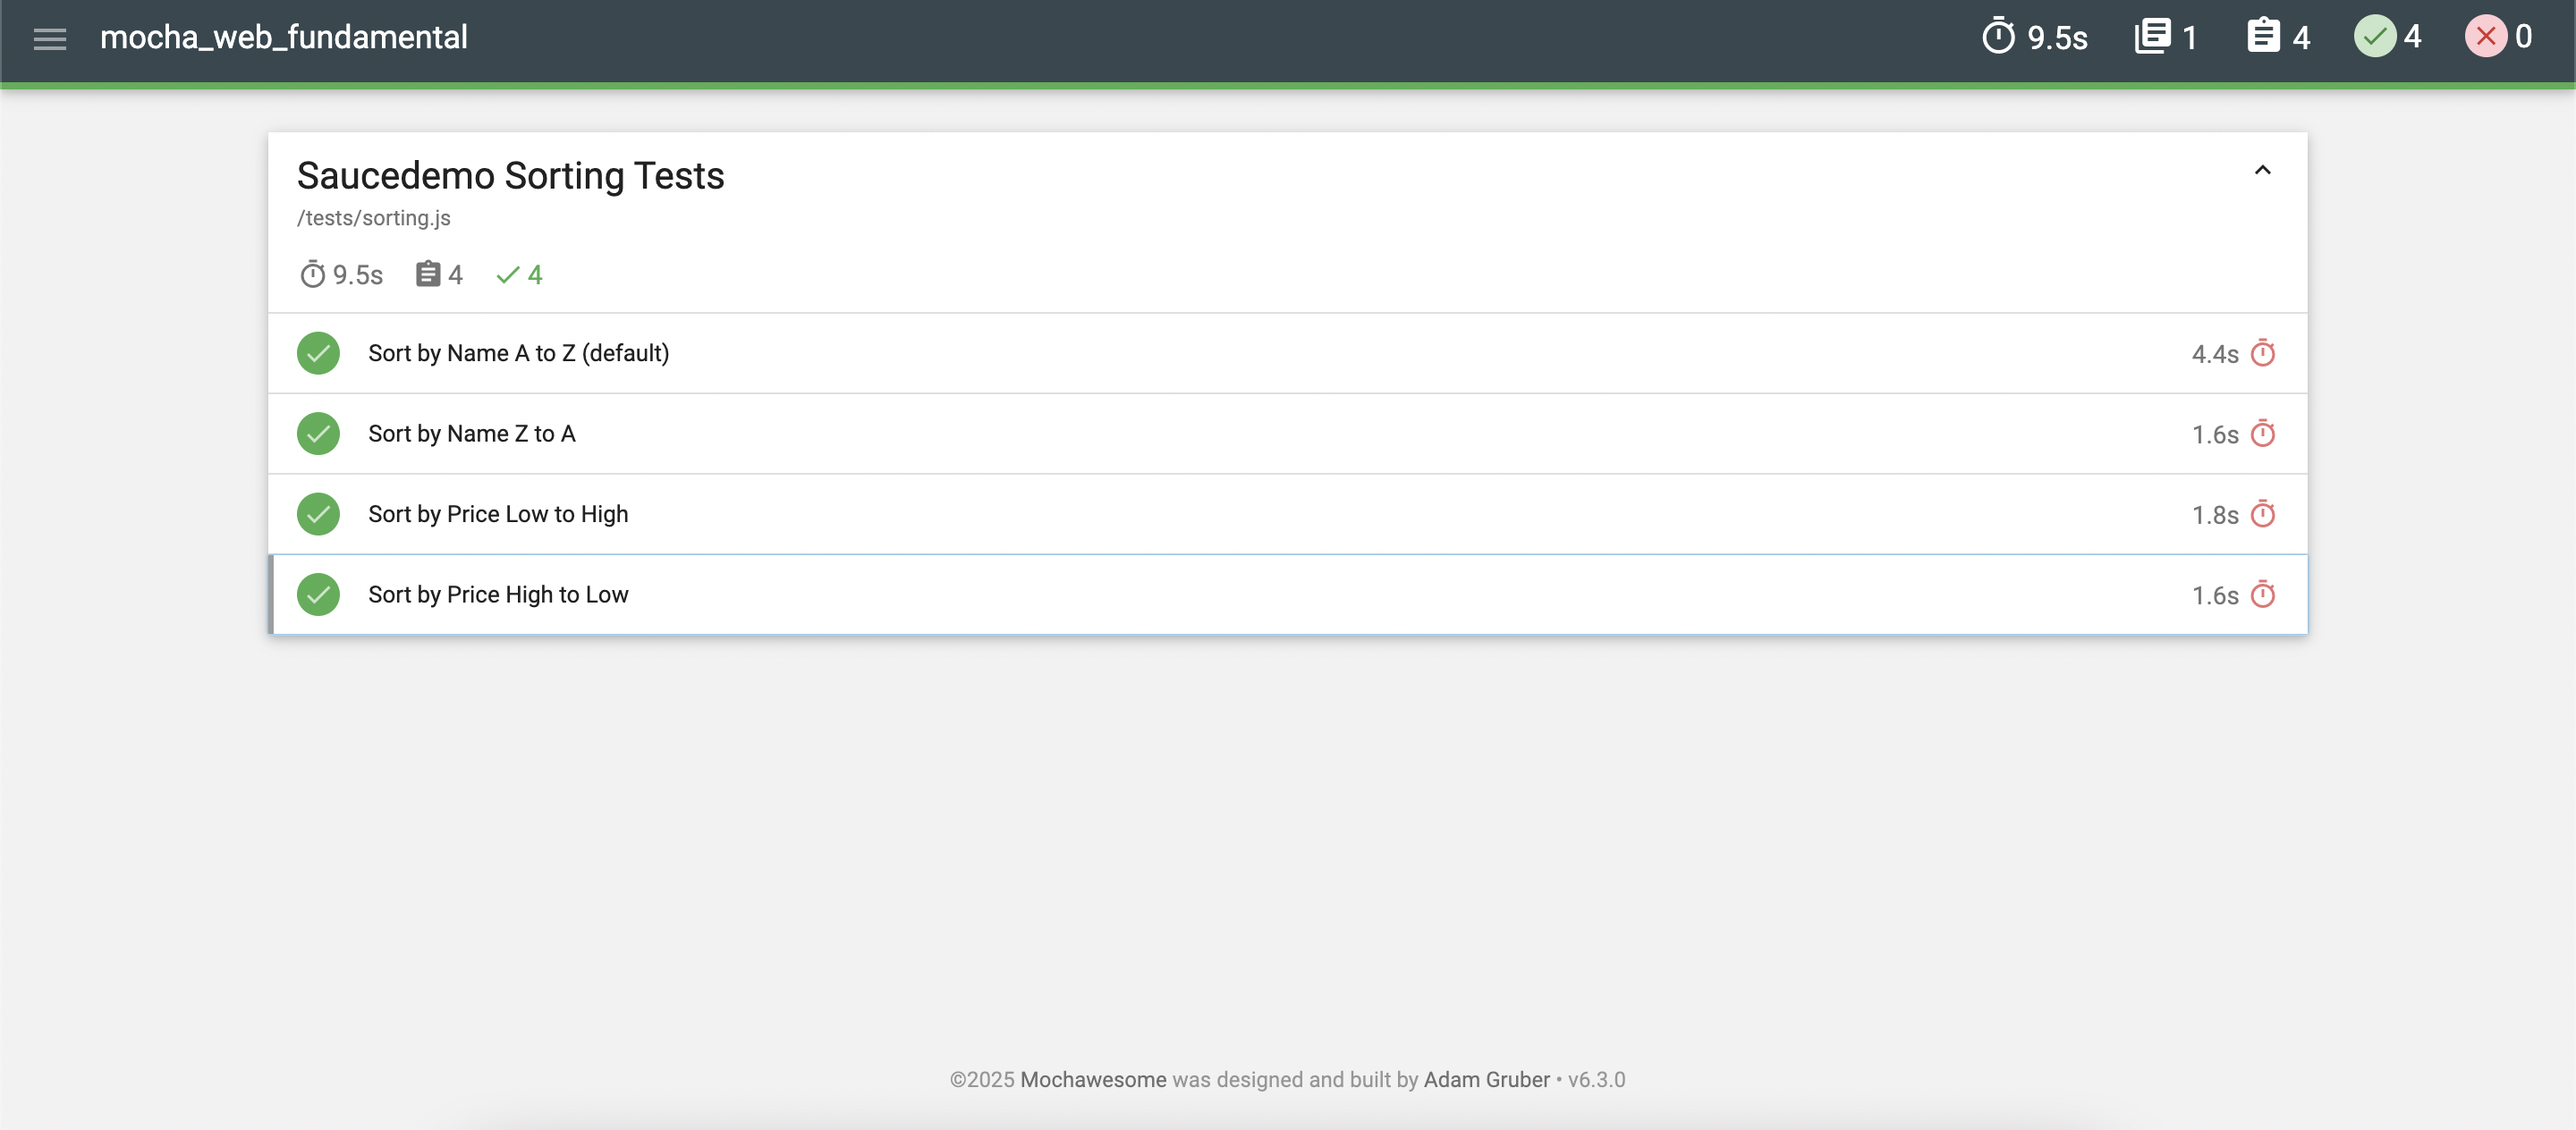
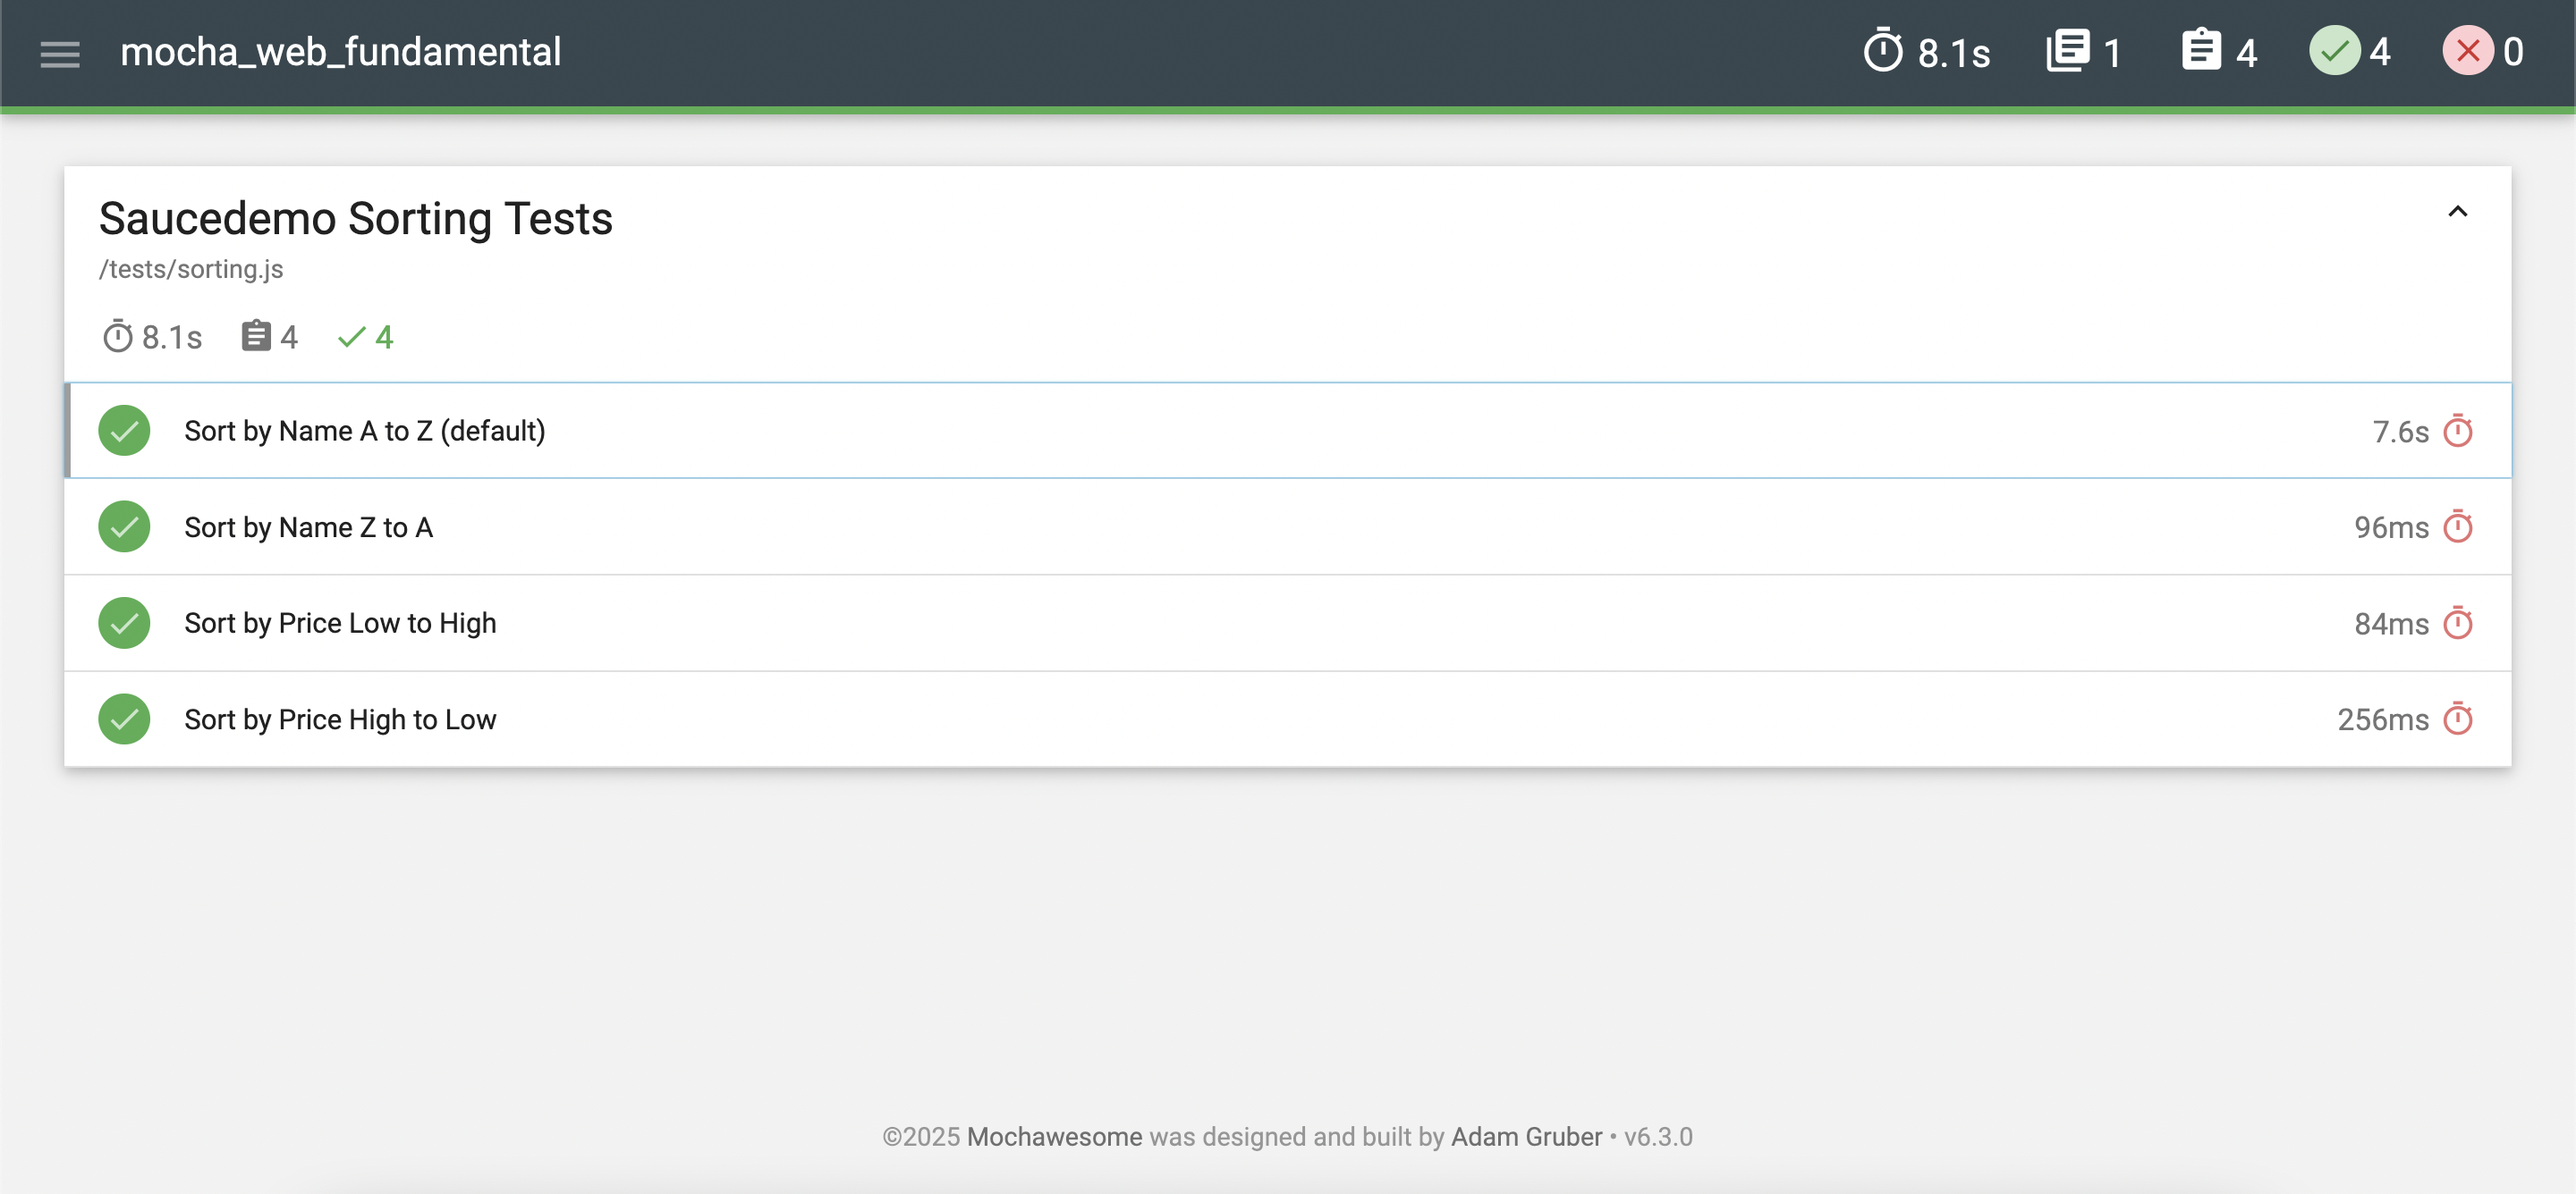
- adding verification for each sorting - update read me - updare test report

diff --git a/mochawesome-report/mochawesome.html b/mochawesome-report/mochawesome.html
@@ -1,2 +1,2 @@
 <!doctype html>
-<html lang="en"><head><meta charSet="utf-8"/><meta http-equiv="X-UA-Compatible" content="IE=edge"/><meta name="viewport" content="width=device-width, initial-scale=1"/><title>Mochawesome Report</title><link rel="stylesheet" href="assets/app.css"/></head><body data-raw="{&quot;stats&quot;:{&quot;suites&quot;:1,&quot;tests&quot;:4,&quot;passes&quot;:4,&quot;pending&quot;:0,&quot;failures&quot;:0,&quot;start&quot;:&quot;2025-10-27T13:00:37.400Z&quot;,&quot;end&quot;:&quot;2025-10-27T13:00:43.430Z&quot;,&quot;duration&quot;:6030,&quot;testsRegistered&quot;:4,&quot;passPercent&quot;:100,&quot;pendingPercent&quot;:0,&quot;other&quot;:0,&quot;hasOther&quot;:false,&quot;skipped&quot;:0,&quot;hasSkipped&quot;:false},&quot;results&quot;:[{&quot;uuid&quot;:&quot;c767aa82-f8a7-44bc-9118-78a42fe69310&quot;,&quot;title&quot;:&quot;&quot;,&quot;fullFile&quot;:&quot;/Users/elsa.fauzia/Documents/qa_enginner_digial_skola/tasks/mocha_web_fundamental/tests/sorting.js&quot;,&quot;file&quot;:&quot;/tests/sorting.js&quot;,&quot;beforeHooks&quot;:[],&quot;afterHooks&quot;:[],&quot;tests&quot;:[],&quot;suites&quot;:[{&quot;uuid&quot;:&quot;f5a542b3-f8d3-4e3d-a6fc-6d152972b6ef&quot;,&quot;title&quot;:&quot;Saucedemo Sorting Tests&quot;,&quot;fullFile&quot;:&quot;/Users/elsa.fauzia/Documents/qa_enginner_digial_skola/tasks/mocha_web_fundamental/tests/sorting.js&quot;,&quot;file&quot;:&quot;/tests/sorting.js&quot;,&quot;beforeHooks&quot;:[],&quot;afterHooks&quot;:[],&quot;tests&quot;:[{&quot;title&quot;:&quot;Sort by Name A to Z (default)&quot;,&quot;fullTitle&quot;:&quot;Saucedemo Sorting Tests Sort by Name A to Z (default)&quot;,&quot;timedOut&quot;:false,&quot;duration&quot;:5770,&quot;state&quot;:&quot;passed&quot;,&quot;speed&quot;:&quot;slow&quot;,&quot;pass&quot;:true,&quot;fail&quot;:false,&quot;pending&quot;:false,&quot;code&quot;:&quot;await setupDriver();\nawait login();\nawait selectSort(\&quot;az\&quot;);&quot;,&quot;err&quot;:{},&quot;uuid&quot;:&quot;d56ff98c-f3b6-4797-bc07-247897f36a17&quot;,&quot;parentUUID&quot;:&quot;f5a542b3-f8d3-4e3d-a6fc-6d152972b6ef&quot;,&quot;isHook&quot;:false,&quot;skipped&quot;:false},{&quot;title&quot;:&quot;Sort by Name Z to A&quot;,&quot;fullTitle&quot;:&quot;Saucedemo Sorting Tests Sort by Name Z to A&quot;,&quot;timedOut&quot;:false,&quot;duration&quot;:74,&quot;state&quot;:&quot;passed&quot;,&quot;speed&quot;:&quot;medium&quot;,&quot;pass&quot;:true,&quot;fail&quot;:false,&quot;pending&quot;:false,&quot;code&quot;:&quot;await selectSort(\&quot;za\&quot;);&quot;,&quot;err&quot;:{},&quot;uuid&quot;:&quot;b34ae70b-16b3-4132-9ba4-74070edad35c&quot;,&quot;parentUUID&quot;:&quot;f5a542b3-f8d3-4e3d-a6fc-6d152972b6ef&quot;,&quot;isHook&quot;:false,&quot;skipped&quot;:false},{&quot;title&quot;:&quot;Sort by Price Low to High&quot;,&quot;fullTitle&quot;:&quot;Saucedemo Sorting Tests Sort by Price Low to High&quot;,&quot;timedOut&quot;:false,&quot;duration&quot;:59,&quot;state&quot;:&quot;passed&quot;,&quot;speed&quot;:&quot;medium&quot;,&quot;pass&quot;:true,&quot;fail&quot;:false,&quot;pending&quot;:false,&quot;code&quot;:&quot;await selectSort(\&quot;lohi\&quot;);&quot;,&quot;err&quot;:{},&quot;uuid&quot;:&quot;c665064a-6f76-448f-8e67-cfece48ccb6b&quot;,&quot;parentUUID&quot;:&quot;f5a542b3-f8d3-4e3d-a6fc-6d152972b6ef&quot;,&quot;isHook&quot;:false,&quot;skipped&quot;:false},{&quot;title&quot;:&quot;Sort by Price High to Low&quot;,&quot;fullTitle&quot;:&quot;Saucedemo Sorting Tests Sort by Price High to Low&quot;,&quot;timedOut&quot;:false,&quot;duration&quot;:121,&quot;state&quot;:&quot;passed&quot;,&quot;speed&quot;:&quot;slow&quot;,&quot;pass&quot;:true,&quot;fail&quot;:false,&quot;pending&quot;:false,&quot;code&quot;:&quot;await selectSort(\&quot;hilo\&quot;);\nawait driver.quit();&quot;,&quot;err&quot;:{},&quot;uuid&quot;:&quot;caa9ca37-a76c-4fc1-be4e-b5e84635c62f&quot;,&quot;parentUUID&quot;:&quot;f5a542b3-f8d3-4e3d-a6fc-6d152972b6ef&quot;,&quot;isHook&quot;:false,&quot;skipped&quot;:false}],&quot;suites&quot;:[],&quot;passes&quot;:[&quot;d56ff98c-f3b6-4797-bc07-247897f36a17&quot;,&quot;b34ae70b-16b3-4132-9ba4-74070edad35c&quot;,&quot;c665064a-6f76-448f-8e67-cfece48ccb6b&quot;,&quot;caa9ca37-a76c-4fc1-be4e-b5e84635c62f&quot;],&quot;failures&quot;:[],&quot;pending&quot;:[],&quot;skipped&quot;:[],&quot;duration&quot;:6024,&quot;root&quot;:false,&quot;rootEmpty&quot;:false,&quot;_timeout&quot;:60000}],&quot;passes&quot;:[],&quot;failures&quot;:[],&quot;pending&quot;:[],&quot;skipped&quot;:[],&quot;duration&quot;:0,&quot;root&quot;:true,&quot;rootEmpty&quot;:true,&quot;_timeout&quot;:60000}],&quot;meta&quot;:{&quot;mocha&quot;:{&quot;version&quot;:&quot;11.7.4&quot;},&quot;mochawesome&quot;:{&quot;options&quot;:{&quot;quiet&quot;:false,&quot;reportFilename&quot;:&quot;mochawesome&quot;,&quot;saveHtml&quot;:true,&quot;saveJson&quot;:true,&quot;consoleReporter&quot;:&quot;spec&quot;,&quot;useInlineDiffs&quot;:false,&quot;code&quot;:true},&quot;version&quot;:&quot;7.1.4&quot;},&quot;marge&quot;:{&quot;version&quot;:&quot;6.3.0&quot;}}}" data-config="{&quot;reportFilename&quot;:&quot;mochawesome&quot;,&quot;reportDir&quot;:&quot;mochawesome-report&quot;,&quot;reportTitle&quot;:&quot;mocha_web_fundamental&quot;,&quot;reportPageTitle&quot;:&quot;Mochawesome Report&quot;,&quot;inline&quot;:false,&quot;inlineAssets&quot;:false,&quot;cdn&quot;:false,&quot;charts&quot;:false,&quot;enableCharts&quot;:false,&quot;code&quot;:true,&quot;enableCode&quot;:true,&quot;autoOpen&quot;:false,&quot;overwrite&quot;:true,&quot;timestamp&quot;:false,&quot;ts&quot;:false,&quot;showPassed&quot;:true,&quot;showFailed&quot;:true,&quot;showPending&quot;:true,&quot;showSkipped&quot;:false,&quot;showHooks&quot;:&quot;failed&quot;,&quot;saveJson&quot;:true,&quot;saveHtml&quot;:true,&quot;dev&quot;:false,&quot;assetsDir&quot;:&quot;mochawesome-report/assets&quot;,&quot;jsonFile&quot;:&quot;/Users/elsa.fauzia/Documents/qa_enginner_digial_skola/tasks/mocha_web_fundamental/mochawesome-report/mochawesome.json&quot;,&quot;htmlFile&quot;:&quot;/Users/elsa.fauzia/Documents/qa_enginner_digial_skola/tasks/mocha_web_fundamental/mochawesome-report/mochawesome.html&quot;}"><div id="report"></div><script src="assets/app.js"></script></body></html>
+<html lang="en"><head><meta charSet="utf-8"/><meta http-equiv="X-UA-Compatible" content="IE=edge"/><meta name="viewport" content="width=device-width, initial-scale=1"/><title>Mochawesome Report</title><link rel="stylesheet" href="assets/app.css"/></head><body data-raw="{&quot;stats&quot;:{&quot;suites&quot;:1,&quot;tests&quot;:4,&quot;passes&quot;:4,&quot;pending&quot;:0,&quot;failures&quot;:0,&quot;start&quot;:&quot;2025-10-28T13:00:06.110Z&quot;,&quot;end&quot;:&quot;2025-10-28T13:00:14.225Z&quot;,&quot;duration&quot;:8115,&quot;testsRegistered&quot;:4,&quot;passPercent&quot;:100,&quot;pendingPercent&quot;:0,&quot;other&quot;:0,&quot;hasOther&quot;:false,&quot;skipped&quot;:0,&quot;hasSkipped&quot;:false},&quot;results&quot;:[{&quot;uuid&quot;:&quot;d500eb13-71f5-4a30-8020-8307dfbf0c34&quot;,&quot;title&quot;:&quot;&quot;,&quot;fullFile&quot;:&quot;/Users/elsa.fauzia/Documents/qa_enginner_digial_skola/tasks/mocha_web_fundamental/tests/sorting.js&quot;,&quot;file&quot;:&quot;/tests/sorting.js&quot;,&quot;beforeHooks&quot;:[],&quot;afterHooks&quot;:[],&quot;tests&quot;:[],&quot;suites&quot;:[{&quot;uuid&quot;:&quot;0e295cd9-3322-42b7-9de7-0ca9c020cc1c&quot;,&quot;title&quot;:&quot;Saucedemo Sorting Tests&quot;,&quot;fullFile&quot;:&quot;/Users/elsa.fauzia/Documents/qa_enginner_digial_skola/tasks/mocha_web_fundamental/tests/sorting.js&quot;,&quot;file&quot;:&quot;/tests/sorting.js&quot;,&quot;beforeHooks&quot;:[],&quot;afterHooks&quot;:[],&quot;tests&quot;:[{&quot;title&quot;:&quot;Sort by Name A to Z (default)&quot;,&quot;fullTitle&quot;:&quot;Saucedemo Sorting Tests Sort by Name A to Z (default)&quot;,&quot;timedOut&quot;:false,&quot;duration&quot;:7674,&quot;state&quot;:&quot;passed&quot;,&quot;speed&quot;:&quot;slow&quot;,&quot;pass&quot;:true,&quot;fail&quot;:false,&quot;pending&quot;:false,&quot;code&quot;:&quot;await setupDriver();\nawait login();\nawait selectSort(\&quot;az\&quot;);&quot;,&quot;err&quot;:{},&quot;uuid&quot;:&quot;27688f4a-8961-45ad-ab3a-2a5c46a2d399&quot;,&quot;parentUUID&quot;:&quot;0e295cd9-3322-42b7-9de7-0ca9c020cc1c&quot;,&quot;isHook&quot;:false,&quot;skipped&quot;:false},{&quot;title&quot;:&quot;Sort by Name Z to A&quot;,&quot;fullTitle&quot;:&quot;Saucedemo Sorting Tests Sort by Name Z to A&quot;,&quot;timedOut&quot;:false,&quot;duration&quot;:96,&quot;state&quot;:&quot;passed&quot;,&quot;speed&quot;:&quot;slow&quot;,&quot;pass&quot;:true,&quot;fail&quot;:false,&quot;pending&quot;:false,&quot;code&quot;:&quot;await selectSort(\&quot;za\&quot;);&quot;,&quot;err&quot;:{},&quot;uuid&quot;:&quot;fcf1f832-4a7e-45e4-80bd-28708fcdebd0&quot;,&quot;parentUUID&quot;:&quot;0e295cd9-3322-42b7-9de7-0ca9c020cc1c&quot;,&quot;isHook&quot;:false,&quot;skipped&quot;:false},{&quot;title&quot;:&quot;Sort by Price Low to High&quot;,&quot;fullTitle&quot;:&quot;Saucedemo Sorting Tests Sort by Price Low to High&quot;,&quot;timedOut&quot;:false,&quot;duration&quot;:84,&quot;state&quot;:&quot;passed&quot;,&quot;speed&quot;:&quot;slow&quot;,&quot;pass&quot;:true,&quot;fail&quot;:false,&quot;pending&quot;:false,&quot;code&quot;:&quot;await selectSort(\&quot;lohi\&quot;);&quot;,&quot;err&quot;:{},&quot;uuid&quot;:&quot;70344eca-1447-4437-a129-dd56968371e2&quot;,&quot;parentUUID&quot;:&quot;0e295cd9-3322-42b7-9de7-0ca9c020cc1c&quot;,&quot;isHook&quot;:false,&quot;skipped&quot;:false},{&quot;title&quot;:&quot;Sort by Price High to Low&quot;,&quot;fullTitle&quot;:&quot;Saucedemo Sorting Tests Sort by Price High to Low&quot;,&quot;timedOut&quot;:false,&quot;duration&quot;:256,&quot;state&quot;:&quot;passed&quot;,&quot;speed&quot;:&quot;slow&quot;,&quot;pass&quot;:true,&quot;fail&quot;:false,&quot;pending&quot;:false,&quot;code&quot;:&quot;await selectSort(\&quot;hilo\&quot;);\nawait driver.quit();&quot;,&quot;err&quot;:{},&quot;uuid&quot;:&quot;e80e11c1-b1c7-4741-81da-93bfbd758e82&quot;,&quot;parentUUID&quot;:&quot;0e295cd9-3322-42b7-9de7-0ca9c020cc1c&quot;,&quot;isHook&quot;:false,&quot;skipped&quot;:false}],&quot;suites&quot;:[],&quot;passes&quot;:[&quot;27688f4a-8961-45ad-ab3a-2a5c46a2d399&quot;,&quot;fcf1f832-4a7e-45e4-80bd-28708fcdebd0&quot;,&quot;70344eca-1447-4437-a129-dd56968371e2&quot;,&quot;e80e11c1-b1c7-4741-81da-93bfbd758e82&quot;],&quot;failures&quot;:[],&quot;pending&quot;:[],&quot;skipped&quot;:[],&quot;duration&quot;:8110,&quot;root&quot;:false,&quot;rootEmpty&quot;:false,&quot;_timeout&quot;:60000}],&quot;passes&quot;:[],&quot;failures&quot;:[],&quot;pending&quot;:[],&quot;skipped&quot;:[],&quot;duration&quot;:0,&quot;root&quot;:true,&quot;rootEmpty&quot;:true,&quot;_timeout&quot;:60000}],&quot;meta&quot;:{&quot;mocha&quot;:{&quot;version&quot;:&quot;11.7.4&quot;},&quot;mochawesome&quot;:{&quot;options&quot;:{&quot;quiet&quot;:false,&quot;reportFilename&quot;:&quot;mochawesome&quot;,&quot;saveHtml&quot;:true,&quot;saveJson&quot;:true,&quot;consoleReporter&quot;:&quot;spec&quot;,&quot;useInlineDiffs&quot;:false,&quot;code&quot;:true},&quot;version&quot;:&quot;7.1.4&quot;},&quot;marge&quot;:{&quot;version&quot;:&quot;6.3.0&quot;}}}" data-config="{&quot;reportFilename&quot;:&quot;mochawesome&quot;,&quot;reportDir&quot;:&quot;mochawesome-report&quot;,&quot;reportTitle&quot;:&quot;mocha_web_fundamental&quot;,&quot;reportPageTitle&quot;:&quot;Mochawesome Report&quot;,&quot;inline&quot;:false,&quot;inlineAssets&quot;:false,&quot;cdn&quot;:false,&quot;charts&quot;:false,&quot;enableCharts&quot;:false,&quot;code&quot;:true,&quot;enableCode&quot;:true,&quot;autoOpen&quot;:false,&quot;overwrite&quot;:true,&quot;timestamp&quot;:false,&quot;ts&quot;:false,&quot;showPassed&quot;:true,&quot;showFailed&quot;:true,&quot;showPending&quot;:true,&quot;showSkipped&quot;:false,&quot;showHooks&quot;:&quot;failed&quot;,&quot;saveJson&quot;:true,&quot;saveHtml&quot;:true,&quot;dev&quot;:false,&quot;assetsDir&quot;:&quot;mochawesome-report/assets&quot;,&quot;jsonFile&quot;:&quot;/Users/elsa.fauzia/Documents/qa_enginner_digial_skola/tasks/mocha_web_fundamental/mochawesome-report/mochawesome.json&quot;,&quot;htmlFile&quot;:&quot;/Users/elsa.fauzia/Documents/qa_enginner_digial_skola/tasks/mocha_web_fundamental/mochawesome-report/mochawesome.html&quot;}"><div id="report"></div><script src="assets/app.js"></script></body></html>

diff --git a/tests/sorting.js b/tests/sorting.js
@@ -28,22 +28,75 @@ describe("Saucedemo Sorting Tests", function () {
     assert.strictEqual(logoText, "Swag Labs");
   }
 
-  // Sort selection helper function
+  // Sort selection and verification
   async function selectSort(value) {
-    const dropdown = await driver
-      .findElement(By.className("product_sort_container"))
-      .click();
+    // Click dropdown and select sorting option
+    const dropdown = await driver.findElement(
+      By.className("product_sort_container")
+    );
+    await dropdown.click();
 
-    const selectedOption = await driver
-      .findElement(By.xpath(`//option[@value="${value}"]`))
-      .click();
+    const option = await driver.findElement(
+      By.xpath(`//option[@value="${value}"]`)
+    );
+    await option.click();
 
-    // Verify sort option was selected correctly
+    // Verify the correct option was selected
     const updatedDropdown = await driver.findElement(
       By.className("product_sort_container")
     );
     const selectedValue = await updatedDropdown.getAttribute("value");
     assert.strictEqual(selectedValue, value);
+
+    // Check if sorting by name (A-Z or Z-A)
+    if (value === "az" || value === "za") {
+      // Get all product names from the page
+      const productElements = await driver.findElements(
+        By.className("inventory_item_name")
+      );
+      const productNames = [];
+
+      for (let element of productElements) {
+        const name = await element.getText();
+        productNames.push(name);
+      }
+
+      // Create expected sorted order
+      let expectedOrder;
+      if (value === "az") {
+        expectedOrder = [...productNames].sort(); // A to Z
+      } else {
+        expectedOrder = [...productNames].sort().reverse(); // Z to A
+      }
+
+      // Verify products are in correct order
+      assert.deepStrictEqual(productNames, expectedOrder);
+    }
+    // Check if sorting by price (Low-High or High-Low)
+    else {
+      // Get all product prices from the page
+      const priceElements = await driver.findElements(
+        By.className("inventory_item_price")
+      );
+      const productPrices = [];
+
+      for (let element of priceElements) {
+        const priceText = await element.getText();
+        const price = parseFloat(priceText.replace("$", ""));
+        productPrices.push(price);
+      }
+
+      // Create expected sorted order
+      let expectedOrder;
+      if (value === "lohi") {
+        expectedOrder = [...productPrices].sort((a, b) => a - b); // Low to High
+      } else {
+        expectedOrder = [...productPrices].sort((a, b) => b - a); // High to Low
+      }
+
+      // Verify prices are in correct order
+      assert.deepStrictEqual(productPrices, expectedOrder);
+    }
   }
 
   // Sorting test cases

diff --git a/README.md b/README.md
@@ -73,8 +73,9 @@ Each test includes dropdown interaction and selection validation using `assert.s
 
 ### Helper Functions
 
+- **`setupDriver()`** - Initializes Chrome WebDriver with incognito mode
 - **`login()`** - Handles authentication and logo verification
-- **`selectSort(value)`** - Manages dropdown interaction and sorting validation
+- **`selectSort(value)`** - Manages dropdown interaction, sorting selection, and validation
 
 ## 📸 Test Report Screenshot
 
@@ -89,6 +90,8 @@ Below is an example of the generated Mochawesome report after running the tests:
 - Element selection with `By.id`, `By.className`, and `By.xpath`
 - Dropdown interaction and attribute validation
 - Helper functions for code reusability (`setupDriver`, `login`, `selectSort`)
+- Actual sorting verification by checking product names and prices order
+- Loop-based data extraction from web elements
 - Assertion testing with `assert.strictEqual`
 - Browser session management with `driver.quit()`
 
